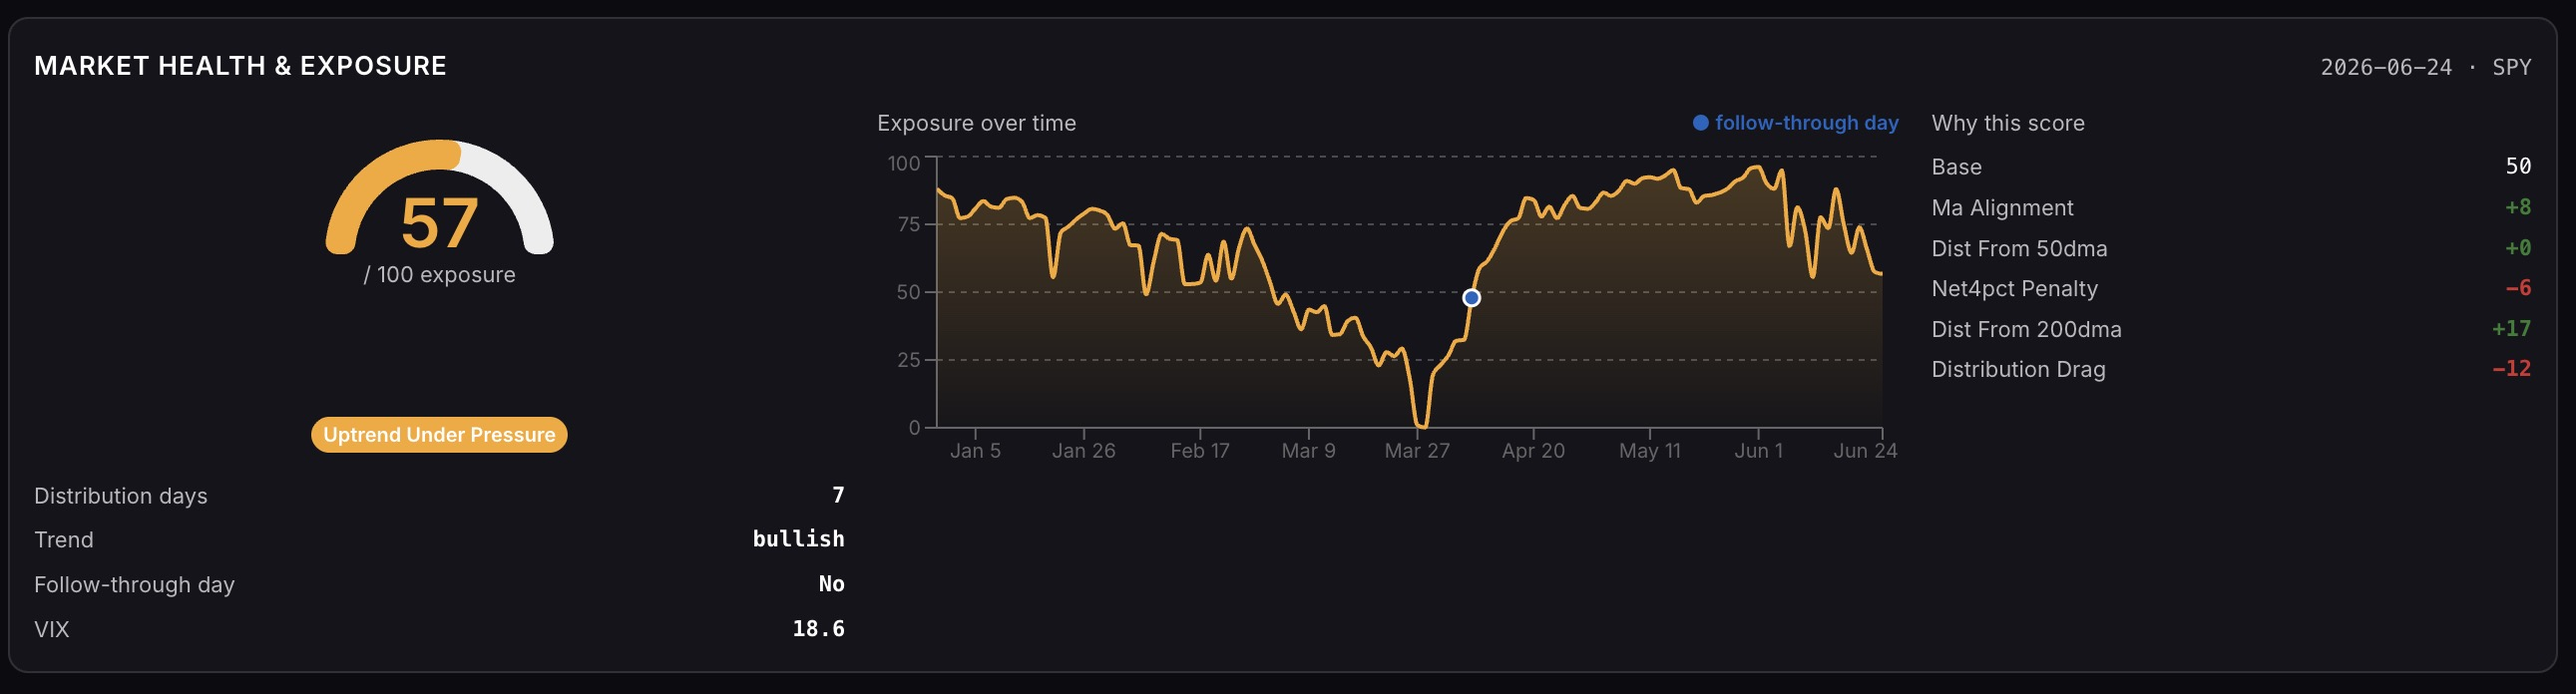
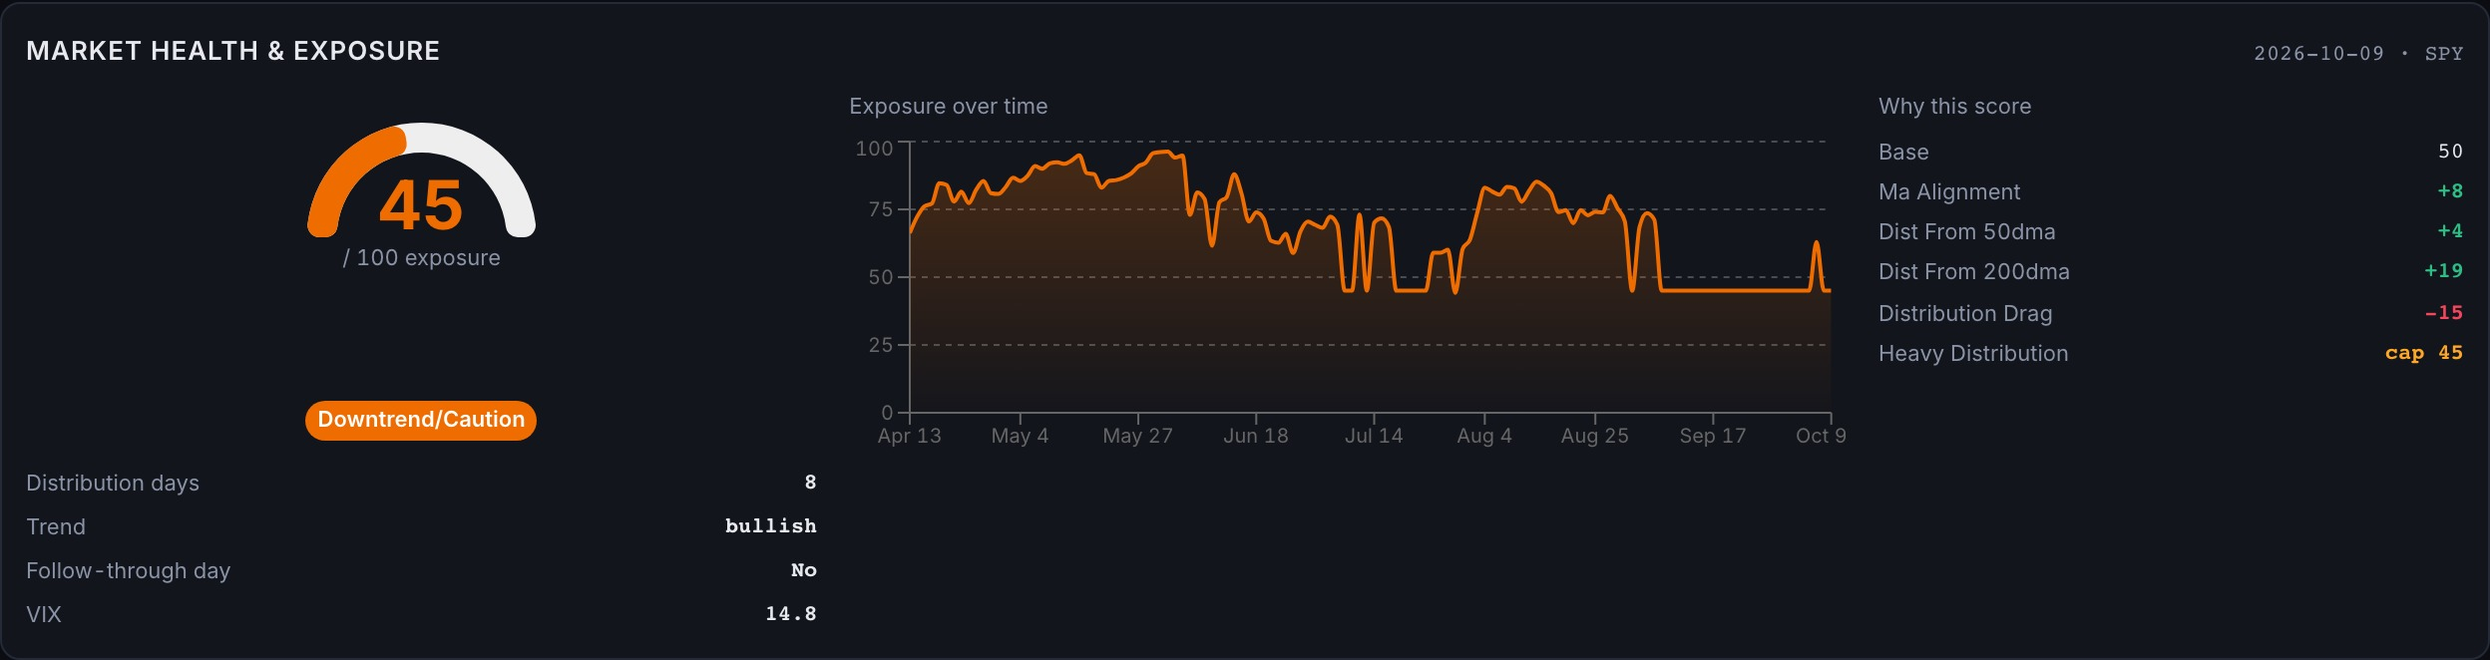
docs: refresh README screenshots and tour GIFs for the new UI
Recapture the README and live-app guide media after the design-token,
mobile-shell, score-tint and skeleton work, from a local live stack and
the refreshed static site.

- Live stack: daily snapshot, health/exposure card, scan results, market
  selector, group rankings, RRG sectors, Options, group RS table and both
  Stock Matrix views.
- Static site: breadth chart and recent-sessions table (a fresh stack only
  has a few sessions of point-in-time universe history, so its breadth
  chart is nearly empty), plus the static tour GIF.
- Hero tour now ends on the Stock Matrix instead of Breadth; alt text
  updated to match.

Capture scripts: RRG is a tab now; the live scan shot no longer flips the
default composite sort to ascending; RRG labels are actually turned on;
the group table waits for the status chip; new steps for the health card
and Options; the hero GIF clears old frames so a shorter take can't keep
the previous take's tail.

diff --git a/docs/SCREENSHOT_GUIDE.md b/docs/SCREENSHOT_GUIDE.md
@@ -195,19 +195,15 @@ This guide provides detailed instructions for capturing screenshots and GIFs for
 ## GIFs to Capture
 
 ### 1. scan-workflow.gif (Hero GIF)
-**Duration**: 8-10 seconds
-**What to capture**: Complete scan workflow:
-1. Start on `/scan` page with no results
-2. Select screeners (click Min, CAN chips)
-3. Click "Start Scan" button
-4. Show progress bar filling
-5. Results populating in table
-6. Optional: Quick scroll through results
+**What to capture** (automated by `capture-scan-workflow.sh`, see below):
+1. Daily Snapshot
+2. Scan results, then a stock's detail, walking to the next stocks with Space
+3. Group rankings table
+4. RRG (sector scope, labels on)
+5. Stock Matrix grid, Technology sector, scrolled to the software rows
 
 **Tips**:
-- Use "Test" universe (20 stocks) for faster demo
-- Optimize GIF size (target < 5MB)
-- Ensure smooth scrolling
+- Optimize GIF size (target ~5MB)
 
 ---
 
@@ -300,13 +296,15 @@ bash frontend/scripts/capture-scan-workflow.sh
 
 > **GIF encoding note:** the tour GIF uses an ffmpeg flat-palette pass with `dither=none` followed by `gifsicle -O3 --lossy`, *not* gifski. The dark UI background is a near-black gradient, and error-diffusion dithering (gifski's default, with no opt-out) scatters it into patchy speckle. `dither=none` keeps the darks uniform; gifsicle recovers the file size. See `capture-scan-workflow.sh` for the exact pass.
 
-`capture-live-readme.mjs` captures the Daily Snapshot, Scan results, Market selector, Breadth, Group rankings, RRG (sector scope, labels on), and Watchlist at `deviceScaleFactor: 2`. Review the output in `.tmp/readme-shots/`, then downscale the keepers to 1440px wide (matching the existing set) before copying into `docs/screenshots/`:
+`capture-live-readme.mjs` captures the Daily Snapshot, the Market Health & Exposure card (element crop, kept at 2x), Scan results, Market selector, Breadth, Group rankings, RRG (sector scope, labels on), Options Command Center, and Watchlist at `deviceScaleFactor: 2`. For a local Docker stack, set `SITE_URL=http://localhost`. `capture-group-readme.mjs` (with `GROUPS_SCREENSHOT_URL=http://localhost`) writes `group-rs-table`, `group-matrix-grid` and `group-matrix-clusters` at their committed size. Review the output in `.tmp/readme-shots/`, then downscale the keepers to 1440px wide (matching the existing set) before copying into `docs/screenshots/`:
 
 ```bash
 ffmpeg -y -i .tmp/readme-shots/breadth-chart.png -vf "scale=1440:-1:flags=lanczos" -q:v 2 docs/screenshots/breadth-chart.jpg
 ```
 
 The table-focused `breadth-history.jpg` is currently captured separately using the steps in **4b** so its group headers and newest rows remain the focus.
+
+**Breadth needs history.** Backfilled breadth only covers dates with a recorded point-in-time universe, so a freshly installed stack shows only a few sessions however wide the range. When that is the case, take `breadth-chart.jpg` and `breadth-history.jpg` from the static site (same page, long history) instead. The hero tour leaves Breadth out for the same reason.
 
 **Capture `scan-results` on an Asian market (e.g. Japan).** The Themes chip-cluster column is only populated for the Asia universes in the reference deployment; a US scan leaves it blank.
 

diff --git a/docs/LIVE_APP_GUIDE.md b/docs/LIVE_APP_GUIDE.md
@@ -2,7 +2,7 @@
 
 This guide covers the server-backed Stock Scanner application: the React UI, FastAPI backend, PostgreSQL database, Redis/Celery workers, and live runtime controls. It is a page-by-page tour with the methodology behind each feature. For deployment, see [Docker Deployment](INSTALL_DOCKER.md). For the read-only GitHub Pages build, see [Static Site Guide](STATIC_SITE.md).
 
-![Live app tour — Daily Snapshot, multi-screener Scan with stock detail, Market Breadth, and the Relative Rotation Graph](gifs/scan-workflow.gif)
+![Live app tour — Daily Snapshot, multi-screener Scan with stock detail, Group rankings, the Relative Rotation Graph, and the Stock Matrix](gifs/scan-workflow.gif)
 *Daily Snapshot → Scan → stock chart → Breadth → Group Rankings*
 
 Covers **12 markets** — US, mainland China A-shares, Hong Kong, Japan, Korea, Taiwan, India, Germany, Canada, Singapore, Malaysia, Australia — each with its own exchange calendar, data, and scans.

diff --git a/README.md b/README.md
@@ -4,7 +4,7 @@
 
 Scan and track **US, Hong Kong, India, Japan, Korea, Taiwan, mainland China A-shares, Germany, Canada, Singapore, Malaysia, and Australia** markets. 
 
-![Live app tour — Daily Snapshot, multi-screener Scan with stock detail, Market Breadth, and the Relative Rotation Graph](docs/gifs/scan-workflow.gif)
+![Live app tour — Daily Snapshot, multi-screener Scan with stock detail, Group rankings, the Relative Rotation Graph, and the Stock Matrix](docs/gifs/scan-workflow.gif)
 *Daily Snapshot → Scans → Stock chart and details →  Breadth → Group Rankings*
 
 ## Use it without installing
